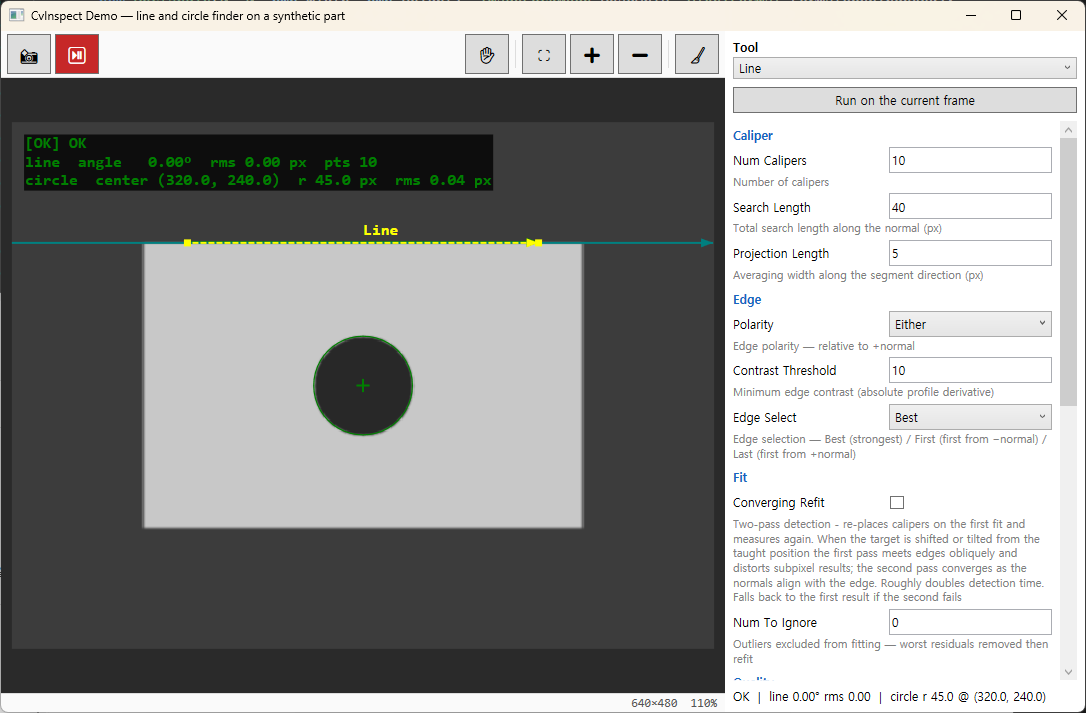
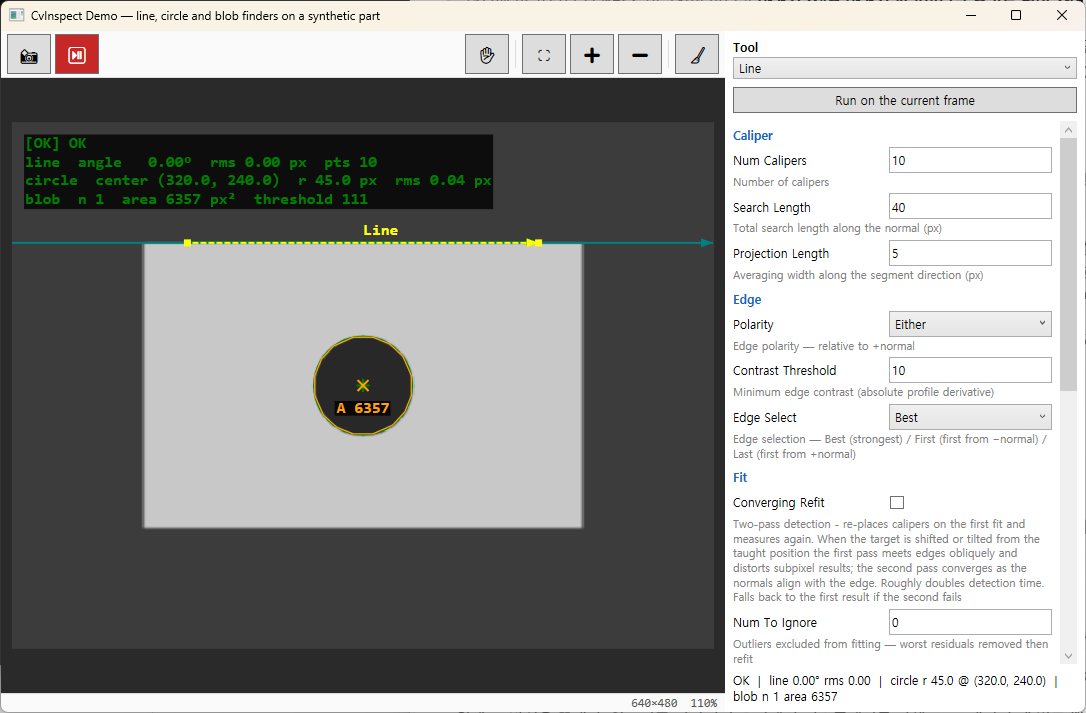
예제에 블랍 툴을 더한다 — 셋째 툴, 컨투어·면적·무게중심 표시
라인·원에 이어 블랍 파인더를 붙인다. 합성 판 안의 구멍이 어두운 블랍이라 잡을 것이 있다.

옵션은 Dark 극성 + 탐색 영역을 판으로 제한한다. 영역을 안 좁히면 어두운 배경이 가장 큰 블랍으로
잡히는데, 그 실패가 오히려 탐색 영역의 뜻을 보여 주므로 README 에 "사각형을 판 밖으로 넓혀 보라" 고
적었다. FindAll 로 MinArea 이상 블랍을 전부 세고 컨투어까지 받아 폴리라인·무게중심 X·면적 라벨로
그린다. HUD 와 상태 표시줄에 블랍 수·합계 면적·실사용 문턱이 붙는다.

회귀에 블랍 단언을 더했다 — 판 안쪽의 어두운 블랍은 구멍 하나뿐이고, 면적은 그린 원의 면적(π·45²)
±5%, 무게중심은 그 중심 ±1px. 실측 6357px² (기대 6362).

스크린샷을 다시 찍었다. 이번 캡처 스크립트는 창을 닫은 뒤 앱이 스스로 끝나는지도 재는데, 끝났다 —
앞서 남아 있던 인스턴스는 초기 배선 결함이 있던 판의 것이었다.

diff --git a/samples/CvInspect.Demo/MainWindow.xaml b/samples/CvInspect.Demo/MainWindow.xaml
@@ -2,7 +2,7 @@
         xmlns="http://schemas.microsoft.com/winfx/2006/xaml/presentation"
         xmlns:x="http://schemas.microsoft.com/winfx/2006/xaml"
         xmlns:cv="clr-namespace:CvInspect.Controls;assembly=CvInspect.Wpf"
-        Title="CvInspect Demo — line and circle finder on a synthetic part" Width="1100" Height="720">
+        Title="CvInspect Demo — line, circle and blob finders on a synthetic part" Width="1100" Height="720">
   <Grid>
     <Grid.ColumnDefinitions>
       <ColumnDefinition Width="*" />

diff --git a/samples/CvInspect.Demo/DemoInspector.cs b/samples/CvInspect.Demo/DemoInspector.cs
@@ -6,7 +6,7 @@ using OpenCvSharp;
 namespace CvInspect.Demo;
 
 /// <summary>한 번의 검사 결과 — 두 툴의 피팅과, 화면에 얹을 그래픽.</summary>
-public sealed record DemoResult(bool IsOk, CvLineFit? Line, CvCircleFit? Circle, ViOverlay Overlay);
+public sealed record DemoResult(bool IsOk, CvLineFit? Line, CvCircleFit? Circle, CvBlobSet Blobs, ViOverlay Overlay);
 
 /// <summary>
 /// 기본 검사기 — 파라미터 POCO 둘(라인·원)을 들고, 프레임 하나를 받아 두 툴을 돌리고 결과를 오버레이로 그린다.
@@ -30,6 +30,18 @@ public sealed class DemoInspector
         CenterX = DemoImage.HoleCenterX,
         CenterY = DemoImage.HoleCenterY,
         Radius = DemoImage.HoleRadius,
+    };
+
+    /// <summary>판 안쪽의 어두운 블랍 — 탐색 영역을 판으로 좁히지 않으면 어두운 배경이 가장 큰 블랍으로 잡힌다.
+    /// 영역 사각형은 드래그 도형으로 편집된다.</summary>
+    public CvBlobOpt Blob { get; } = new()
+    {
+        Polarity = CvBlobPolarity.Dark,
+        UseSearchRegion = true,
+        SearchX = DemoImage.PlateX + 10,
+        SearchY = DemoImage.PlateY + 10,
+        SearchW = DemoImage.PlateW - 20,
+        SearchH = DemoImage.PlateH - 20,
     };
 
     public DemoResult Run(Mat frame)
@@ -59,10 +71,23 @@ public sealed class DemoInspector
             overlay.Add(new ViOverlaySeg { X1 = c.CenterX, Y1 = c.CenterY - 6, X2 = c.CenterX, Y2 = c.CenterY + 6, Color = ViOverlayColor.Green });
         }
 
-        var ok = line is not null && circle is not null;
+        // 블랍은 전부 센다 — 조각난 대상도 놓치지 않게. 컨투어는 입력 이미지 공간이라 그대로 폴리라인으로 그린다.
+        var blobs = CvBlobFinder.FindAll(gray, Blob, withContours: true);
+        for (var i = 0; i < blobs.Hits.Count; i++)
+        {
+            var b = blobs.Hits[i];
+            if (i < blobs.Contours.Count)
+                overlay.Add(new ViOverlayPoly { Points = blobs.Contours[i], IsClosed = true, Color = ViOverlayColor.Orange });
+            overlay.Add(new ViOverlaySeg { X1 = b.X - 5, Y1 = b.Y - 5, X2 = b.X + 5, Y2 = b.Y + 5, Color = ViOverlayColor.Orange });
+            overlay.Add(new ViOverlaySeg { X1 = b.X - 5, Y1 = b.Y + 5, X2 = b.X + 5, Y2 = b.Y - 5, Color = ViOverlayColor.Orange });
+            overlay.Add(new ViOverlayLabel { Text = $"A {b.Area:F0}", X = b.X, Y = b.Y + 12, FontSize = 12f, Color = ViOverlayColor.Orange });
+        }
+
+        var ok = line is not null && circle is not null && blobs.Hits.Count > 0;
         overlay.AddSummary(ok, ok ? "OK" : "NG",
             line is { } lf ? $"line  angle {lf.AngleDeg,6:F2}°  rms {lf.RmsPx:F2} px  pts {lf.PointCount}" : "line  not found",
-            circle is { } cf ? $"circle  center ({cf.CenterX:F1}, {cf.CenterY:F1})  r {cf.Radius:F1} px  rms {cf.RmsPx:F2} px" : "circle  not found");
-        return new DemoResult(ok, line, circle, overlay);
+            circle is { } cf ? $"circle  center ({cf.CenterX:F1}, {cf.CenterY:F1})  r {cf.Radius:F1} px  rms {cf.RmsPx:F2} px" : "circle  not found",
+            blobs.Hits.Count > 0 ? $"blob  n {blobs.Hits.Count}  area {blobs.TotalArea:F0} px²  threshold {blobs.ThresholdUsed:F0}" : "blob  none");
+        return new DemoResult(ok, line, circle, blobs, overlay);
     }
 }

diff --git a/samples/CvInspect.Demo/MainVm.cs b/samples/CvInspect.Demo/MainVm.cs
@@ -9,7 +9,7 @@ using OpenCvSharp;
 
 namespace CvInspect.Demo;
 
-public enum DemoTool { Line, Circle }
+public enum DemoTool { Line, Circle, Blob }
 
 /// <summary>
 /// 화면 VM — 취득(VirtualCam 이 합성 이미지 폴더를 재생) → 표시(CamFrame 을 Frame 에 그대로) → 검사(AsMat 무복사 래핑으로
@@ -18,7 +18,7 @@ public enum DemoTool { Line, Circle }
 /// </summary>
 public sealed partial class MainVm : ObservableObject, IDisposable
 {
-    public IReadOnlyList<DemoTool> Tools { get; } = [DemoTool.Line, DemoTool.Circle];
+    public IReadOnlyList<DemoTool> Tools { get; } = [DemoTool.Line, DemoTool.Circle, DemoTool.Blob];
 
     [ObservableProperty] private object? _frame;
     [ObservableProperty] private ViOverlay? _overlay;
@@ -31,6 +31,7 @@ public sealed partial class MainVm : ObservableObject, IDisposable
     private readonly DemoInspector _insp = new();
     private readonly IReadOnlyList<CvEditShape> _lineShapes;
     private readonly IReadOnlyList<CvEditShape> _circleShapes;
+    private readonly IReadOnlyList<CvEditShape> _blobShapes;
     private readonly ICam _cam;
     private CamFrame? _last;
 
@@ -39,6 +40,7 @@ public sealed partial class MainVm : ObservableObject, IDisposable
         // 탐색 도형은 툴마다 한 번 만든다 — 드래그가 Opt 에 되쓰이고, 되쓰일 때마다 다시 검사한다.
         _lineShapes = CvShapeBinder.For(_insp.Line, Rerun) ?? [];
         _circleShapes = CvShapeBinder.For(_insp.Circle, Rerun) ?? [];
+        _blobShapes = CvShapeBinder.For(_insp.Blob, Rerun) ?? [];
 
         // 합성 부품 이미지를 파일로 두고 VirtualCam 이 그 폴더를 재생한다 — 실제 카메라와 같은 ICam 경로를 탄다.
         var dir = Path.Combine(Path.GetTempPath(), "CvInspect.Demo");
@@ -62,8 +64,12 @@ public sealed partial class MainVm : ObservableObject, IDisposable
 
     private void ApplyTool(DemoTool tool)
     {
-        ToolOpt = tool == DemoTool.Line ? _insp.Line : _insp.Circle;
-        Shapes = tool == DemoTool.Line ? _lineShapes : _circleShapes;
+        (ToolOpt, Shapes) = tool switch
+        {
+            DemoTool.Line => ((object)_insp.Line, _lineShapes),
+            DemoTool.Circle => (_insp.Circle, _circleShapes),
+            _ => (_insp.Blob, _blobShapes),
+        };
     }
 
     [RelayCommand] private void Grab() => _cam.GrabOne();
@@ -104,7 +110,8 @@ public sealed partial class MainVm : ObservableObject, IDisposable
         Overlay = r.Overlay;
         Status = (r.IsOk ? "OK" : "NG")
             + (r.Line is { } l ? $"  |  line {l.AngleDeg:F2}° rms {l.RmsPx:F2}" : "  |  line: not found")
-            + (r.Circle is { } c ? $"  |  circle r {c.Radius:F1} @ ({c.CenterX:F1}, {c.CenterY:F1})" : "  |  circle: not found");
+            + (r.Circle is { } c ? $"  |  circle r {c.Radius:F1} @ ({c.CenterX:F1}, {c.CenterY:F1})" : "  |  circle: not found")
+            + $"  |  blob n {r.Blobs.Hits.Count} area {r.Blobs.TotalArea:F0}";
     }
 
     public void Dispose()

diff --git a/tests/CvInspect.Wpf.Tests/CvPropEditCtrlTests.cs b/tests/CvInspect.Wpf.Tests/CvPropEditCtrlTests.cs
@@ -101,5 +101,12 @@ public class CvPropEditCtrlTests
         Check(r.Circle is { } c && Math.Abs(c.Radius - DemoImage.HoleRadius) < 1.5
               && Math.Abs(c.CenterX - DemoImage.HoleCenterX) < 1.0 && Math.Abs(c.CenterY - DemoImage.HoleCenterY) < 1.0,
             $"hole measured at its drawn geometry: r={r.Circle?.Radius:F2} center=({r.Circle?.CenterX:F2}, {r.Circle?.CenterY:F2})");
+
+        // 블랍: 판 안쪽의 어두운 영역은 구멍 하나뿐이어야 하고, 면적은 그린 원의 면적, 무게중심은 그 중심이다.
+        var expectedArea = Math.PI * DemoImage.HoleRadius * DemoImage.HoleRadius;
+        var hit = r.Blobs.Hits.Count > 0 ? r.Blobs.Hits[0] : default;
+        Check(r.Blobs.Hits.Count == 1 && Math.Abs(hit.Area - expectedArea) / expectedArea < 0.05
+              && Math.Abs(hit.X - DemoImage.HoleCenterX) < 1.0 && Math.Abs(hit.Y - DemoImage.HoleCenterY) < 1.0,
+            $"hole is the single dark blob inside the plate: n={r.Blobs.Hits.Count} area={hit.Area:F0} (expected {expectedArea:F0}) center=({hit.X:F1}, {hit.Y:F1})");
     }
 }

diff --git a/samples/CvInspect.Demo/README.md b/samples/CvInspect.Demo/README.md
@@ -6,8 +6,8 @@ One window that wires the whole toolkit together:
 
 ```
 VirtualCam (folder playback) ──CamFrame──▶ CvDispCtrl.Frame        (held by reference, no copy)
-                               └──AsMat()──▶ CvLineFinder / CvCircleFinder ──▶ ViOverlay ──▶ CvDispCtrl.Overlay
-CvPropEditCtrl ◀── CvFindLineOpt / CvFindCircleOpt ──▶ CvShapeBinder ──▶ draggable search shapes
+                               └──AsMat()──▶ CvLineFinder / CvCircleFinder / CvBlobFinder ──▶ ViOverlay ──▶ CvDispCtrl.Overlay
+CvPropEditCtrl ◀── CvFindLineOpt / CvFindCircleOpt / CvBlobOpt ──▶ CvShapeBinder ──▶ draggable search shapes
 ```
 
 The part is synthetic (`DemoImage`): a bright plate on a dark background with a dark hole in the
@@ -17,12 +17,15 @@ frames arrive through the same `ICam` path a real camera would use.
 ## Try
 
 - **📸 / ⏯** on the toolbar grab one frame or stream at 10 fps.
-- **Drag the yellow shape** (the line's search segment, the circle's expected arc) — the tool
-  re-runs as you drag, because the shape writes straight back into the option POCO.
+- **Drag the search shape** (the line's segment, the circle's expected arc, the blob's search
+  rectangle) — the tool re-runs as you drag, because the shape writes straight back into the
+  option POCO. Widen the blob rectangle past the plate and watch the dark background become the
+  biggest blob: the search region is what keeps the hole the only hit.
 - **Edit a parameter** in the right pane (calipers, search length, polarity, gates) — every
   commit re-runs the inspection. Hover a label for its description.
 - **Right-click → Load image** to inspect a file of your own; 8-bit 1/3/4-channel formats only.
-- Switch **Tool** to edit the other tool; both results stay on the overlay.
+- Switch **Tool** to edit another tool; all three results stay on the overlay. The blob tool
+  reports every blob above `MinArea` — count, area, centroid and contour — not just the largest.
 
 ## Run
 
